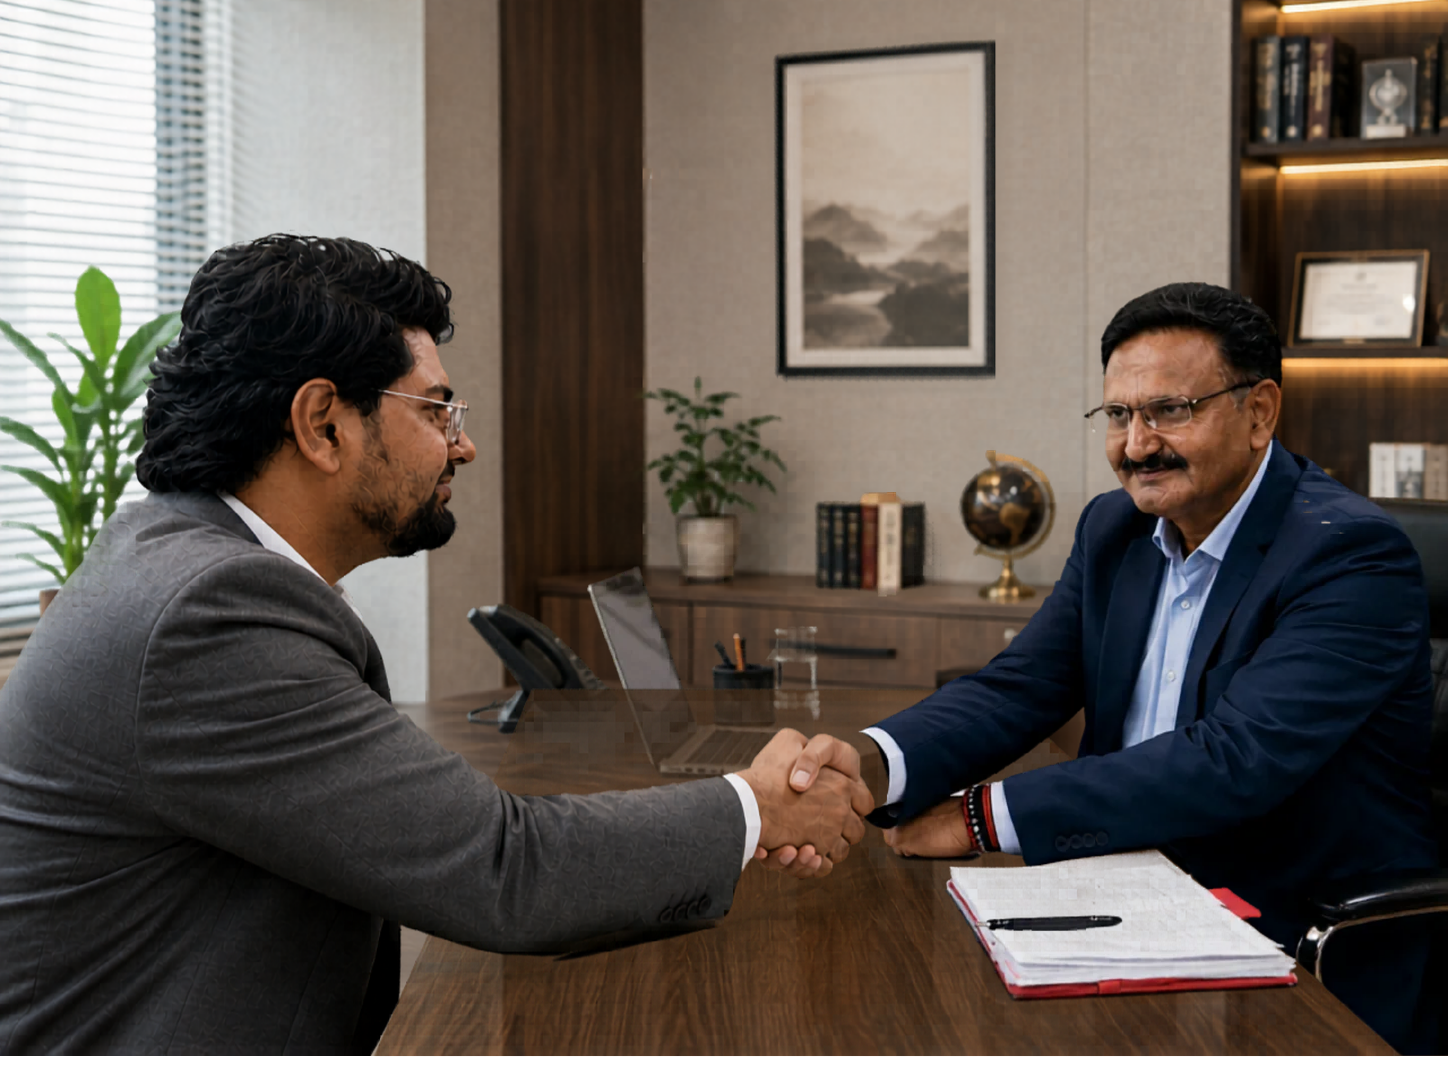
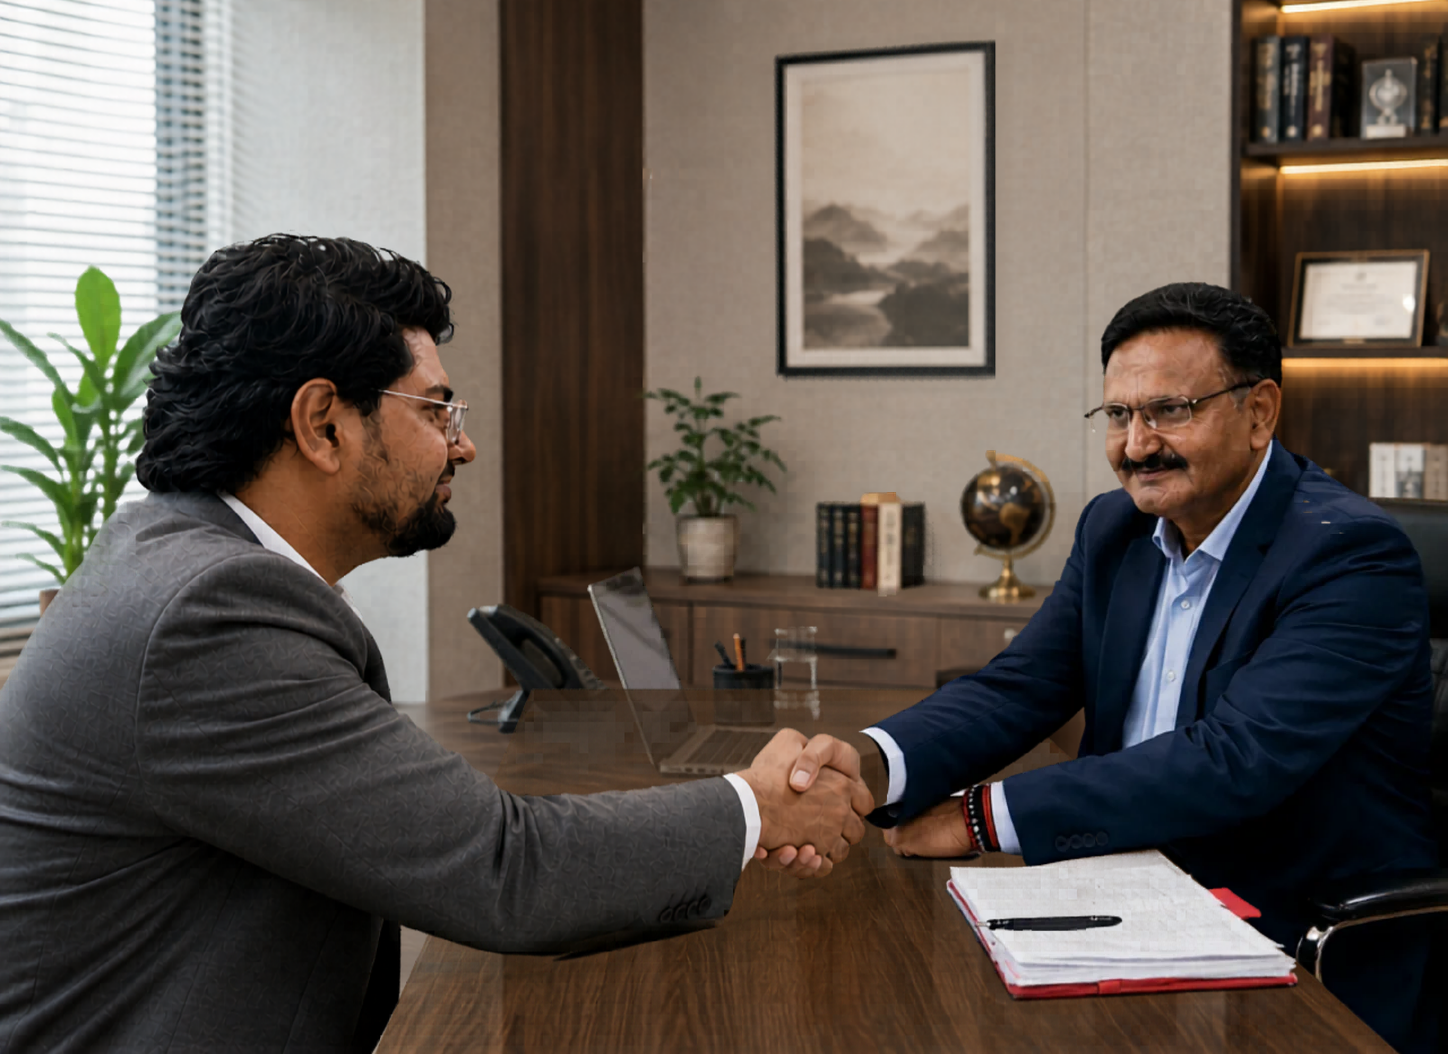
image upload

diff --git a/src/routes/Admin.applicant.$applicantId.jsx b/src/routes/Admin.applicant.$applicantId.jsx
@@ -4,6 +4,7 @@ import { useNavigate, useParams } from "react-router-dom";
 import { Layout } from "@/components/Layout";
 import { PageHero } from "@/components/PageHero";
 import { api } from "@/lib/api";
+import { toast } from "sonner";
 
 import {
   ArrowLeft,
@@ -80,12 +81,17 @@ export default function ApplicantDetailsPage() {
 
     try {
       const res = await api.applicants.updateStatus(applicantId, status);
-
-      console.log("Status update response:", res);
+      if (res?.success) {
+        toast.success(res.message || "Status updated successfully!");
+      } else {
+        toast.error(
+          res?.message || "Failed to update status. Please try again.",
+        );
+      }
     } catch (err) {
       console.error("Failed to update status:", err);
 
-      alert("Failed to update status. Please try again.");
+      toast.error("Failed to update status. Please try again.");
     } finally {
       setUpdatingStatus(false);
     }

diff --git a/src/components/SiteFooter.jsx b/src/components/SiteFooter.jsx
@@ -90,6 +90,16 @@ export function SiteFooter() {
                   +91 7428700214
                 </a>
               </div>
+              <div className="flex items-start gap-1">
+                <Phone className="mt-0.5 h-4 w-4 text-accent" />
+
+                <a
+                  href="tel:+917428700215"
+                  className="transition-colors hover:text-accent"
+                >
+                  +91 7428700215
+                </a>
+              </div>
             </li>
             <li className="flex items-start gap-2">
               <Mail className="mt-0.5 h-4 w-4 text-accent" />

diff --git a/src/routes/Contact.jsx b/src/routes/Contact.jsx
@@ -19,6 +19,13 @@ const contacts = [
     href: "tel:+917428700214",
   },
   {
+    icon: Phone,
+    label: "Phone",
+    value: "+91 74287 00215",
+    href: "tel:+917428700215",
+  },
+
+  {
     icon: Mail,
     label: "Email",
     value: "[email redacted]",